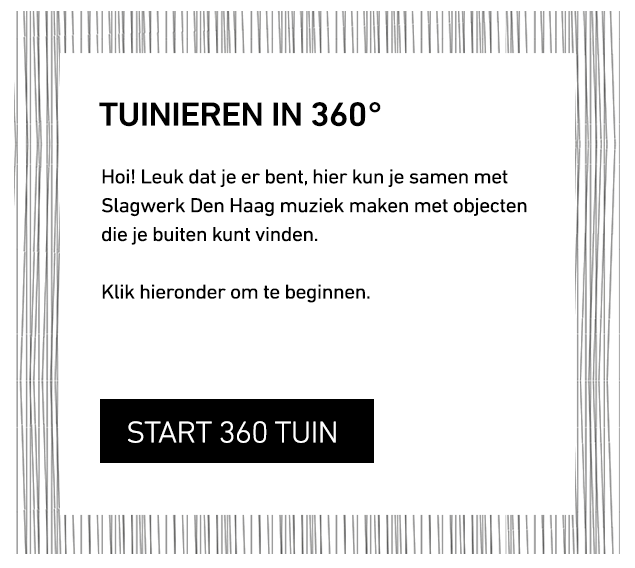
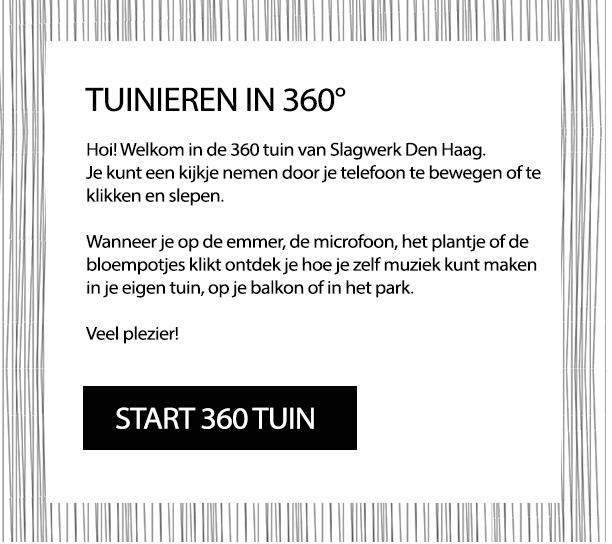
links back

diff --git a/index.html b/index.html
@@ -4,12 +4,14 @@
 <title>Tuinieren</title>
 <meta name="viewport" content="target-densitydpi=device-dpi, width=device-width, initial-scale=1.0, maximum-scale=1.0, minimum-scale=1.0, user-scalable=no, minimal-ui" />
 <style>@-ms-viewport { width: device-width; }</style>
-<link rel="stylesheet" href="vendor/reset.css">
-<link rel="stylesheet" href="style.css">
+<link rel="stylesheet" href="//timfi.github.io/sdh_360player/vendor/reset.css">
+<link rel="stylesheet" href="//timfi.github.io/sdh_360player/style.css">
 </head>
 <body>
 
-<div id="intro"></div>
+<div id="intro">
+  <img class="intro-img" src="//timfi.github.io/sdh_360player/img/PopUp.png">
+</div>
 
 <div id="pano"></div>
 
@@ -19,18 +21,18 @@
 <div id="iframespot04"></div> 
 
 <div id="toggleDeviceOrientation">
-  <img class="enable" src="img/enable.png">
-  <img class="disable" src="img/disable.png">
+  <img class="enable" src="//timfi.github.io/sdh_360player/img/enable.png">
+  <img class="disable" src="//timfi.github.io/sdh_360player/img/disable.png">
 </div>
 
-<script src="vendor/es5-shim.js"></script>
-<script src="vendor/eventShim.js"></script>
-<script src="vendor/requestAnimationFrame.js" ></script>
-<script src="vendor/marzipano.js" ></script>
-<script src="vendor/DeviceOrientationControlMethod.js"></script>
+<script src="//timfi.github.io/sdh_360player/vendor/es5-shim.js"></script>
+<script src="//timfi.github.io/sdh_360player/vendor/eventShim.js"></script>
+<script src="//timfi.github.io/sdh_360player/vendor/requestAnimationFrame.js" ></script>
+<script src="//timfi.github.io/sdh_360player/vendor/marzipano.js" ></script>
+<script src="//timfi.github.io/sdh_360player/vendor/DeviceOrientationControlMethod.js"></script>
 
-<script src="VideoAsset.js"></script>
-<script src="360player.js"></script>
+<script src="//timfi.github.io/sdh_360player/VideoAsset.js"></script>
+<script src="//timfi.github.io/sdh_360player/360player.js"></script>
 
 </body>
 </html>
